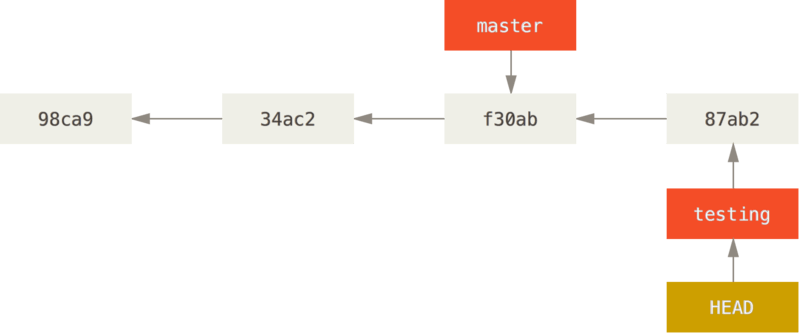
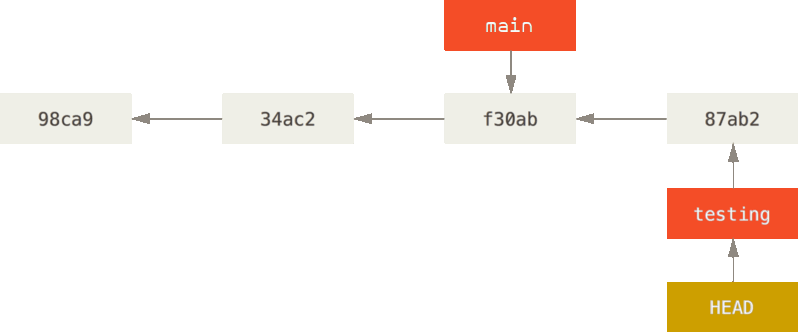
Attribution, master->main

diff --git a/01-introduzione-a-git-lucidi.tex b/01-introduzione-a-git-lucidi.tex
@@ -77,7 +77,9 @@
       \end{alertblock}\pause
     \item<2->un client \texttt{ssh}. Su Linux e macOS è già installato; su
       Windows, se vi manca, c'è
-      \href{https://www.chiark.greenend.org.uk/~sgtatham/putty/latest.html}{\beamergotobutton{PuTTY}}.
+      \href{https://www.chiark.greenend.org.uk/~sgtatham/putty/latest.html}{\beamergotobutton{PuTTY}};
+    \item<3->un utente su una piattaforma di \emph{hosting} per progetti
+      \texttt{git}.
   \end{enumerate}
 \end{frame}
 
@@ -166,9 +168,12 @@
 
 \begin{frame}{\texttt{git status}}
   \begin{figure}
-    \includegraphics[width=\textwidth]{assets/lifecycle.png}
+    \includegraphics[width=0.75\textwidth]{assets/lifecycle.png}
     \caption{Gli stati fra cui i \emph{file} di una \emph{repository} si
-    muovono.}
+    muovono. \href{https://git-scm.com/book/en/v2/Git-Basics-Recording-Changes-to-the-Repository}{\emph{Pro Git},
+    figura 8} di Scott Chacon e Ben Straub, rilasciata sotto licenza
+    \href{https://creativecommons.org/licenses/by-nc-sa/3.0/}{CC
+    BY\_NC\_SA 3.0}.}
   \end{figure}\pause
   Con \texttt{git status}, mostriamo lo stato attuale del nostro "albero di
   lavoro".
@@ -192,7 +197,12 @@
 \subsection{\texttt{git add, commit}}
 \begin{frame}{\texttt{git add}}
   \begin{figure}
-    \includegraphics[width=\textwidth]{assets/lifecycle-add.png}
+    \includegraphics[width=0.75\textwidth]{assets/lifecycle-add.png}
+    \caption{Gli stati fra cui i \emph{file} di una \emph{repository} si
+    muovono. \href{https://git-scm.com/book/en/v2/Git-Basics-Recording-Changes-to-the-Repository}{\emph{Pro Git},
+    figura 8} di Scott Chacon e Ben Straub, rilasciata sotto licenza
+    \href{https://creativecommons.org/licenses/by-nc-sa/3.0/}{CC
+    BY\_NC\_SA 3.0} / Parz. ricolorata.}
   \end{figure}
   Aggiunge \texttt{<pathspec>} (non tracciato o modificato) agli
   \emph{staged files}:
@@ -203,7 +213,12 @@
 
 \begin{frame}{\texttt{git commit}}
   \begin{figure}
-    \includegraphics[width=\textwidth]{assets/lifecycle-commit.png}
+    \includegraphics[width=0.75\textwidth]{assets/lifecycle-commit.png}
+    \caption{Gli stati fra cui i \emph{file} di una \emph{repository} si
+    muovono. \href{https://git-scm.com/book/en/v2/Git-Basics-Recording-Changes-to-the-Repository}{\emph{Pro Git},
+    figura 8} di Scott Chacon e Ben Straub, rilasciata sotto licenza
+    \href{https://creativecommons.org/licenses/by-nc-sa/3.0/}{CC
+    BY\_NC\_SA 3.0} / Parz. ricolorata.}
   \end{figure}
   Registra le modifiche agli \emph{staged files} commentadole con \texttt{msg}:
   \emph{staged files}:
@@ -260,14 +275,29 @@
   \begin{semiverbatim}
     \$ git checkout -b <branch> \# crea <branch> e vi si sposta
   \end{semiverbatim}
+\end{frame}
+
+\begin{frame}{\texttt{git branch, checkout}}
   \begin{figure}
     \includegraphics[width=\textwidth]{assets/head-to-testing.png}
+    \caption{
+      \href{https://git-scm.com/book/en/v2/Git-Branching-Branches-in-a-Nutshell}{\emph{Pro Git},
+      figura 14} di Scott Chacon e Ben Straub, rilasciata sotto licenza
+      \href{https://creativecommons.org/licenses/by-nc-sa/3.0/}{CC
+      BY\_NC\_SA 3.0} / Testo modificato.
+    }
   \end{figure}
 \end{frame}
 
 \begin{frame}{\texttt{git branch, checkout}}
   \begin{figure}
     \includegraphics[width=\textwidth]{assets/advance-testing.png}
+    \caption{
+      \href{https://git-scm.com/book/en/v2/Git-Branching-Branches-in-a-Nutshell}{\emph{Pro Git},
+      figura 15} di Scott Chacon e Ben Straub, rilasciata sotto licenza
+      \href{https://creativecommons.org/licenses/by-nc-sa/3.0/}{CC
+      BY\_NC\_SA 3.0} / Testo modificato.
+    }
   \end{figure}
 \end{frame}
 
@@ -275,9 +305,20 @@
   \begin{semiverbatim}
     \$ git checkout <branch> \# si sposta su branch
   \end{semiverbatim}
+\end{frame}
+
+\begin{frame}{\texttt{git branch, checkout}}
+  \begin{semiverbatim}
   \begin{figure}
     \includegraphics[width=\textwidth]{assets/advance-main.png}
+    \caption{
+      \href{https://git-scm.com/book/en/v2/Git-Branching-Branches-in-a-Nutshell}{\emph{Pro Git},
+      figura 17} di Scott Chacon e Ben Straub, rilasciata sotto licenza
+      \href{https://creativecommons.org/licenses/by-nc-sa/3.0/}{CC
+      BY\_NC\_SA 3.0} / Testo modificato.
+    }
   \end{figure}
+  \end{semiverbatim}
 \end{frame}
 
 \begin{frame}{\texttt{git branch, checkout}}
